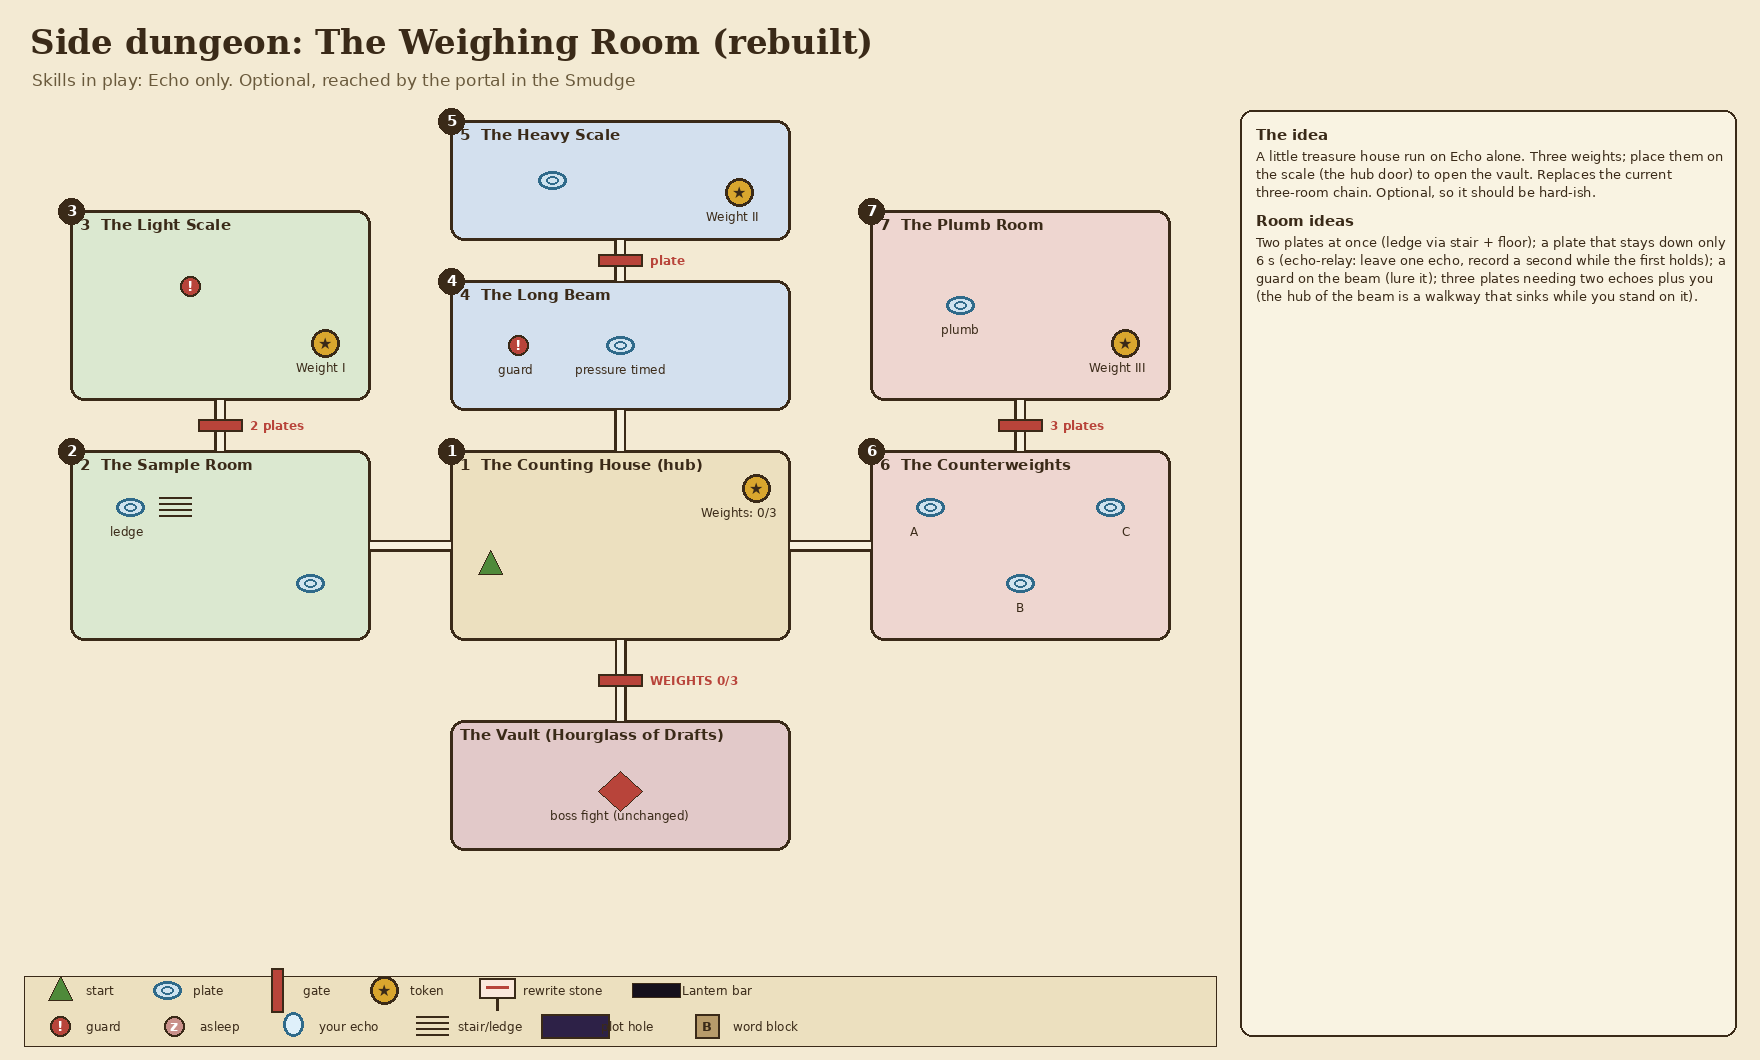
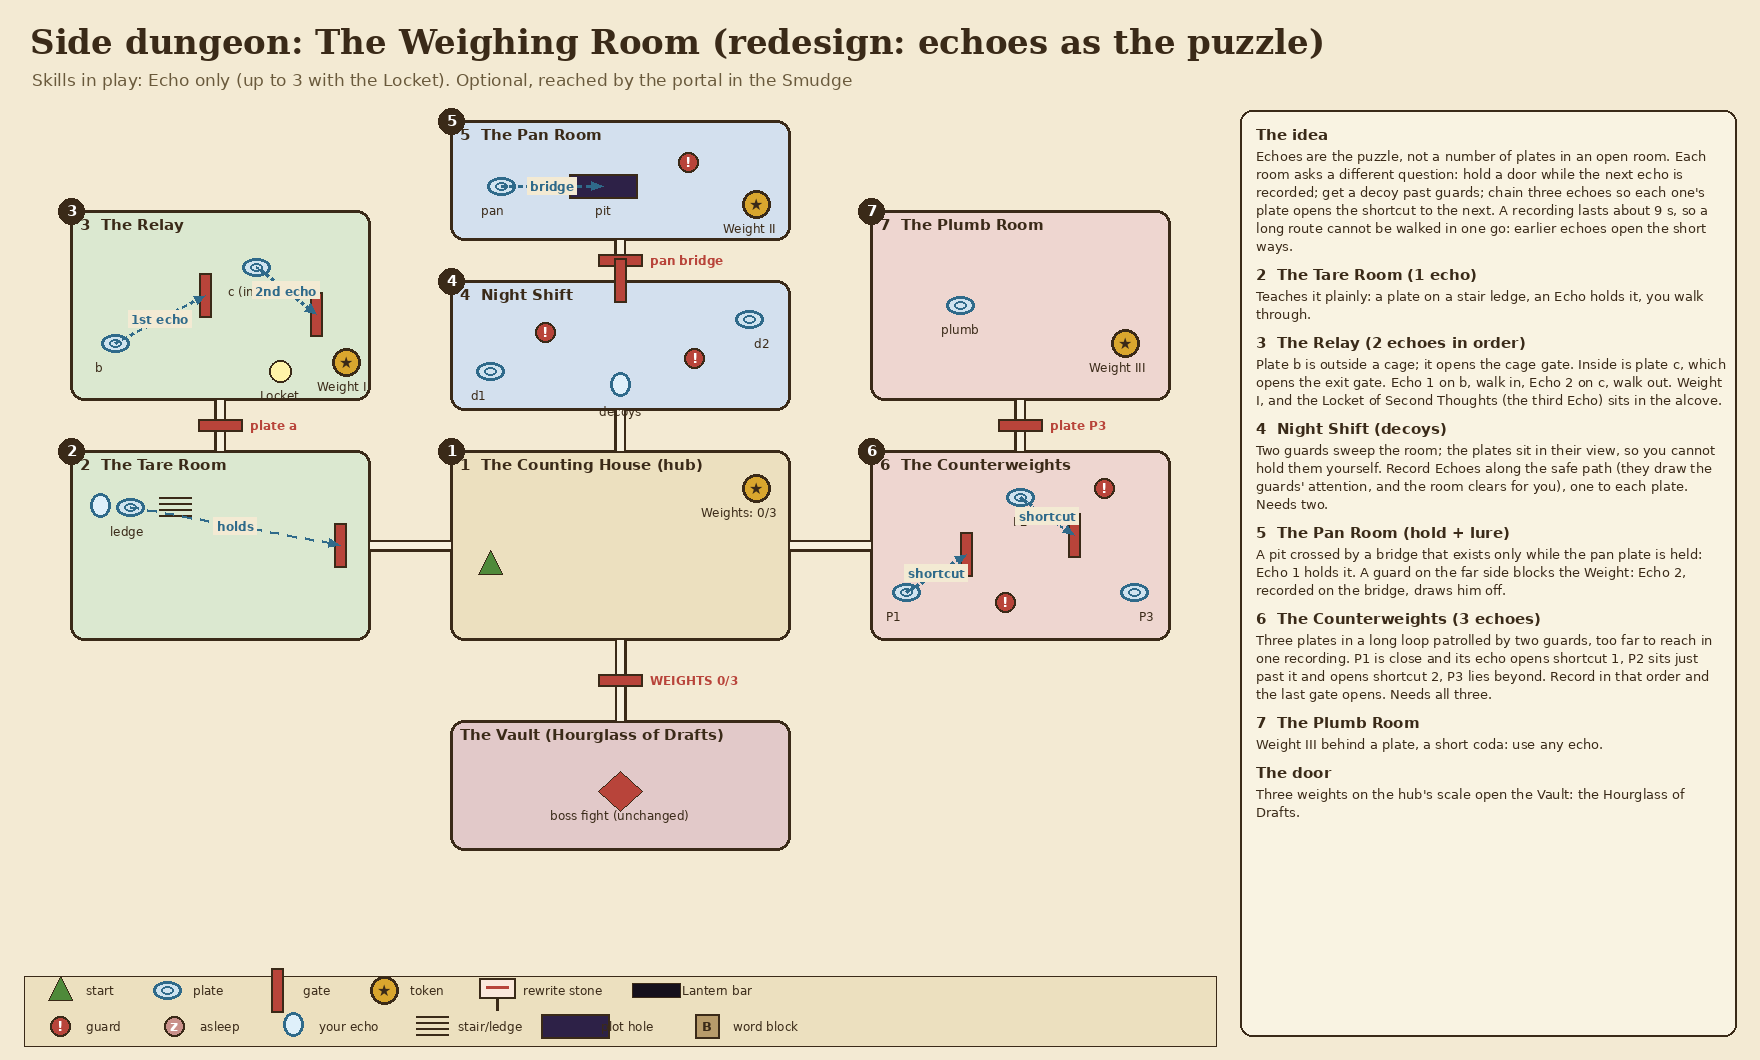
Design plan: Weighing Room redesigned around echo chains, decoys and shortcuts; GDD echo puzzle rule
Claude-Session: https://claude.ai/code/session_016gJ6h7fwHSB3wbPLZqVGQo

diff --git a/tools/draw_plans.py b/tools/draw_plans.py
@@ -249,18 +249,36 @@ def scissor():
 
 # ---- WEIGHING ROOM (side) ---------------------------------------------------------------------------------------------
 def weighing():
-    p = Plan("Side dungeon: The Weighing Room (rebuilt)", "Echo only. Optional, reached by the portal in the Smudge")
-    frame(p, {"hub": "1  The Counting House (hub)", "a1": "2  The Sample Room", "a2": "3  The Light Scale", "b1": "4  The Long Beam", "b2": "5  The Heavy Scale",
-              "c1": "6  The Counterweights", "c2": "7  The Plumb Room", "la": "2 plates", "lb": "plate", "lc": "3 plates"}, "The Vault (Hourglass of Drafts)", "WEIGHTS 0/3")
+    p = Plan("Side dungeon: The Weighing Room (redesign: echoes as the puzzle)", "Echo only (up to 3 with the Locket). Optional, reached by the portal in the Smudge")
+    frame(p, {"hub": "1  The Counting House (hub)", "a1": "2  The Tare Room", "a2": "3  The Relay", "b1": "4  Night Shift", "b2": "5  The Pan Room",
+              "c1": "6  The Counterweights", "c2": "7  The Plumb Room", "la": "plate a", "lb": "pan bridge", "lc": "plate P3"}, "The Vault (Hourglass of Drafts)", "WEIGHTS 0/3")
     p.item("hub", "start", "start", 0.12, 0.6); p.item("hub", "tk", "token", 0.9, 0.2, "Weights: 0/3")
-    p.item("a1", "p1", "plate", 0.2, 0.3, "ledge"); p.item("a1", "p2", "plate", 0.8, 0.7, ""); p.item("a1", "st", "stair", 0.35, 0.3)
-    p.item("a2", "tL", "token", 0.85, 0.7, "Weight I"); p.item("a2", "e", "enemy", 0.4, 0.4)
-    p.item("b1", "p3", "plate", 0.5, 0.5, "pressure timed"); p.item("b1", "eg", "enemy", 0.2, 0.5, "guard")
-    p.item("b2", "tH", "token", 0.85, 0.6, "Weight II"); p.item("b2", "pc", "plate", 0.3, 0.5, "")
-    p.item("c1", "q1", "plate", 0.2, 0.3, "A"); p.item("c1", "q2", "plate", 0.5, 0.7, "B"); p.item("c1", "q3", "plate", 0.8, 0.3, "C")
-    p.item("c2", "ps", "plate", 0.3, 0.5, "plumb"); p.item("c2", "tP", "token", 0.85, 0.7, "Weight III")
-    p.note("The idea", "A little treasure house run on Echo alone. Three weights; place them on the scale (the hub door) to open the vault. Replaces the current three-room chain. Optional, so it should be hard-ish.")
-    p.note("Room ideas", "Two plates at once (ledge via stair + floor); a plate that stays down only 6 s (echo-relay: leave one echo, record a second while the first holds); a guard on the beam (lure it); three plates needing two echoes plus you (the hub of the beam is a walkway that sinks while you stand on it).")
+    # Tare Room: one echo
+    p.item("a1", "pa", "plate", 0.2, 0.3, "ledge"); p.item("a1", "st", "stair", 0.35, 0.3); p.item("a1", "ea", "echo", 0.1, 0.3)
+    p.item("a1", "ga", "gate", 0.9, 0.5); p.dep("pa", "ga", BLUE, "holds", 0)
+    # Relay: two echoes in order
+    p.item("a2", "pb", "plate", 0.15, 0.7, "b"); p.item("a2", "x1", "gate", 0.45, 0.45); p.item("a2", "pc", "plate", 0.62, 0.3, "c (inside)"); p.item("a2", "x2", "gate", 0.82, 0.55)
+    p.item("a2", "tW1", "token", 0.92, 0.8, "Weight I"); p.item("a2", "lk", "lamp", 0.7, 0.85, "Locket")
+    p.dep("pb", "x1", BLUE, "1st echo", 0); p.dep("pc", "x2", BLUE, "2nd echo", 0)
+    # Night Shift: decoys
+    p.item("b1", "g1", "enemy", 0.28, 0.4); p.item("b1", "g2", "enemy", 0.72, 0.6); p.item("b1", "pd", "plate", 0.12, 0.7, "d1"); p.item("b1", "pe", "plate", 0.88, 0.3, "d2"); p.item("b1", "gt", "gate", 0.5, 0.0)
+    p.item("b1", "e1", "echo", 0.5, 0.82, "decoys")
+    # Pan Room: bridge held by an echo; a guard across
+    p.item("b2", "pf", "plate", 0.15, 0.55, "pan"); p.item("b2", "hp", "hole", 0.45, 0.55, "pit"); p.item("b2", "g3", "enemy", 0.7, 0.35); p.item("b2", "tW2", "token", 0.9, 0.7, "Weight II")
+    p.dep("pf", "hp", BLUE, "bridge", 0)
+    # Counterweights: chain with shortcuts
+    p.item("c1", "p1", "plate", 0.12, 0.75, "P1"); p.item("c1", "s1", "gate", 0.32, 0.55); p.item("c1", "p2", "plate", 0.5, 0.25, "P2"); p.item("c1", "s2", "gate", 0.68, 0.45)
+    p.item("c1", "p3", "plate", 0.88, 0.75, "P3"); p.item("c1", "g4", "enemy", 0.45, 0.8); p.item("c1", "g5", "enemy", 0.78, 0.2)
+    p.dep("p1", "s1", BLUE, "shortcut", 0); p.dep("p2", "s2", BLUE, "shortcut", 0)
+    p.item("c2", "tW3", "token", 0.85, 0.7, "Weight III"); p.item("c2", "pz", "plate", 0.3, 0.5, "plumb")
+    p.note("The idea", "Echoes are the puzzle, not a number of plates in an open room. Each room asks a different question: hold a door while the next echo is recorded; get a decoy past guards; chain three echoes so each one's plate opens the shortcut to the next. A recording lasts about 9 s, so a long route cannot be walked in one go: earlier echoes open the short ways.")
+    p.note("2  The Tare Room (1 echo)", "Teaches it plainly: a plate on a stair ledge, an Echo holds it, you walk through.")
+    p.note("3  The Relay (2 echoes in order)", "Plate b is outside a cage; it opens the cage gate. Inside is plate c, which opens the exit gate. Echo 1 on b, walk in, Echo 2 on c, walk out. Weight I, and the Locket of Second Thoughts (the third Echo) sits in the alcove.")
+    p.note("4  Night Shift (decoys)", "Two guards sweep the room; the plates sit in their view, so you cannot hold them yourself. Record Echoes along the safe path (they draw the guards' attention, and the room clears for you), one to each plate. Needs two.")
+    p.note("5  The Pan Room (hold + lure)", "A pit crossed by a bridge that exists only while the pan plate is held: Echo 1 holds it. A guard on the far side blocks the Weight: Echo 2, recorded on the bridge, draws him off.")
+    p.note("6  The Counterweights (3 echoes)", "Three plates in a long loop patrolled by two guards, too far to reach in one recording. P1 is close and its echo opens shortcut 1, P2 sits just past it and opens shortcut 2, P3 lies beyond. Record in that order and the last gate opens. Needs all three.")
+    p.note("7  The Plumb Room", "Weight III behind a plate, a short coda: use any echo.")
+    p.note("The door", "Three weights on the hub's scale open the Vault: the Hourglass of Drafts.")
     p.finish("docs/dungeon_plans/side_weighing_room.png")
 
 # ---- PROOF ROOM (side) ------------------------------------------------------------------------------------------------

diff --git a/docs/GDD.md b/docs/GDD.md
@@ -465,3 +465,6 @@ Plan: `docs/dungeon_plans/pip_library.png`. Generated by `tools/gen_pip.py` (sta
 
 ### Echo capacity and the Locket of Second Thoughts (v2.18)
 Playtest bug: the Weighing Room's second gate asked for three plates held at once (you plus two Echoes), which cannot be done because you must walk away from your plate. Fix: the **Locket of Second Thoughts** lies just inside that room and permanently raises the Echo limit from two to three (flag `echo_third`, `GameState.echo_capacity()`). Design rule: a gate that stays open only while plates are held can ask for at most (Echo capacity) plates, never one more, because the player cannot hold one and walk through. Later items can raise the capacity further. Idea for later chapters: a heavy object (a bold word, a crate) that holds a plate down, so a puzzle can ask for more plates than Echoes.
+
+### Echo puzzle design rule (v2.19)
+An Echo room should ask a question, not count plates in an open room. Good questions: hold a door while the next Echo is recorded (chains); get Echoes past guards that you could not pass yourself (decoys); route a long path in 9-second pieces, each Echo opening the shortcut for the next; or use an Echo as a timing trick. Redesign plan for the Weighing Room: `docs/dungeon_plans/side_weighing_room.png`.
